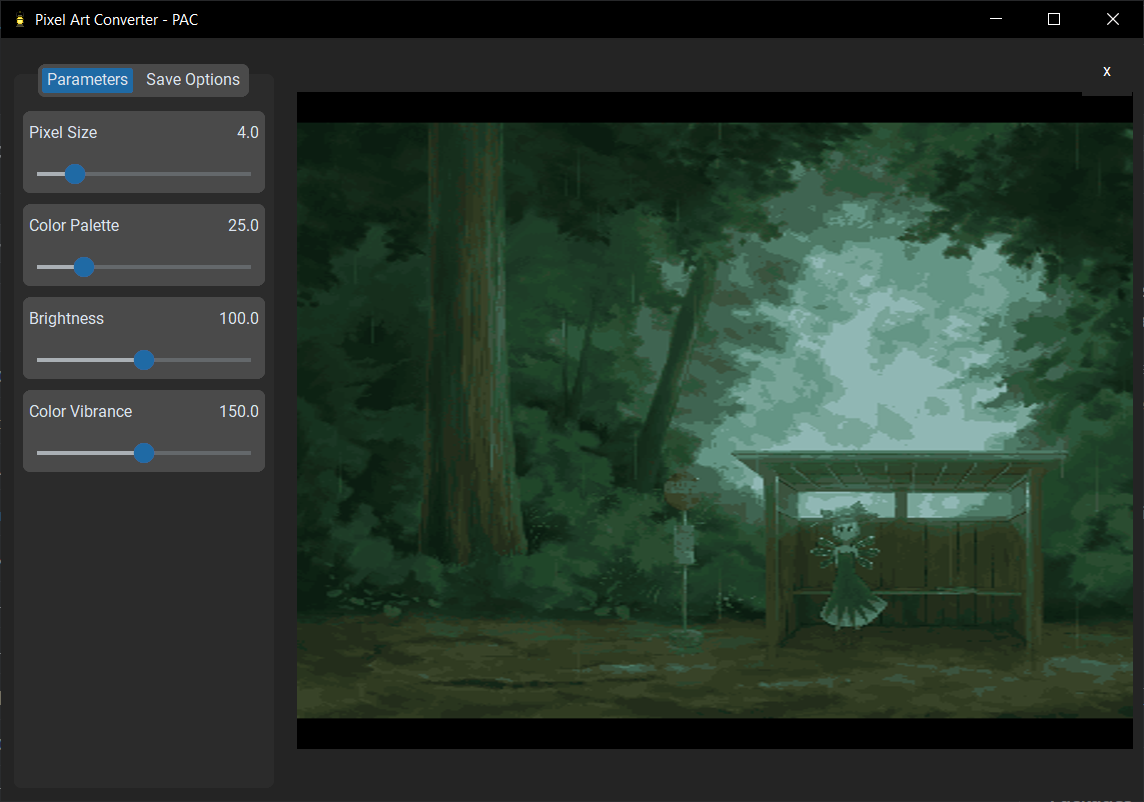
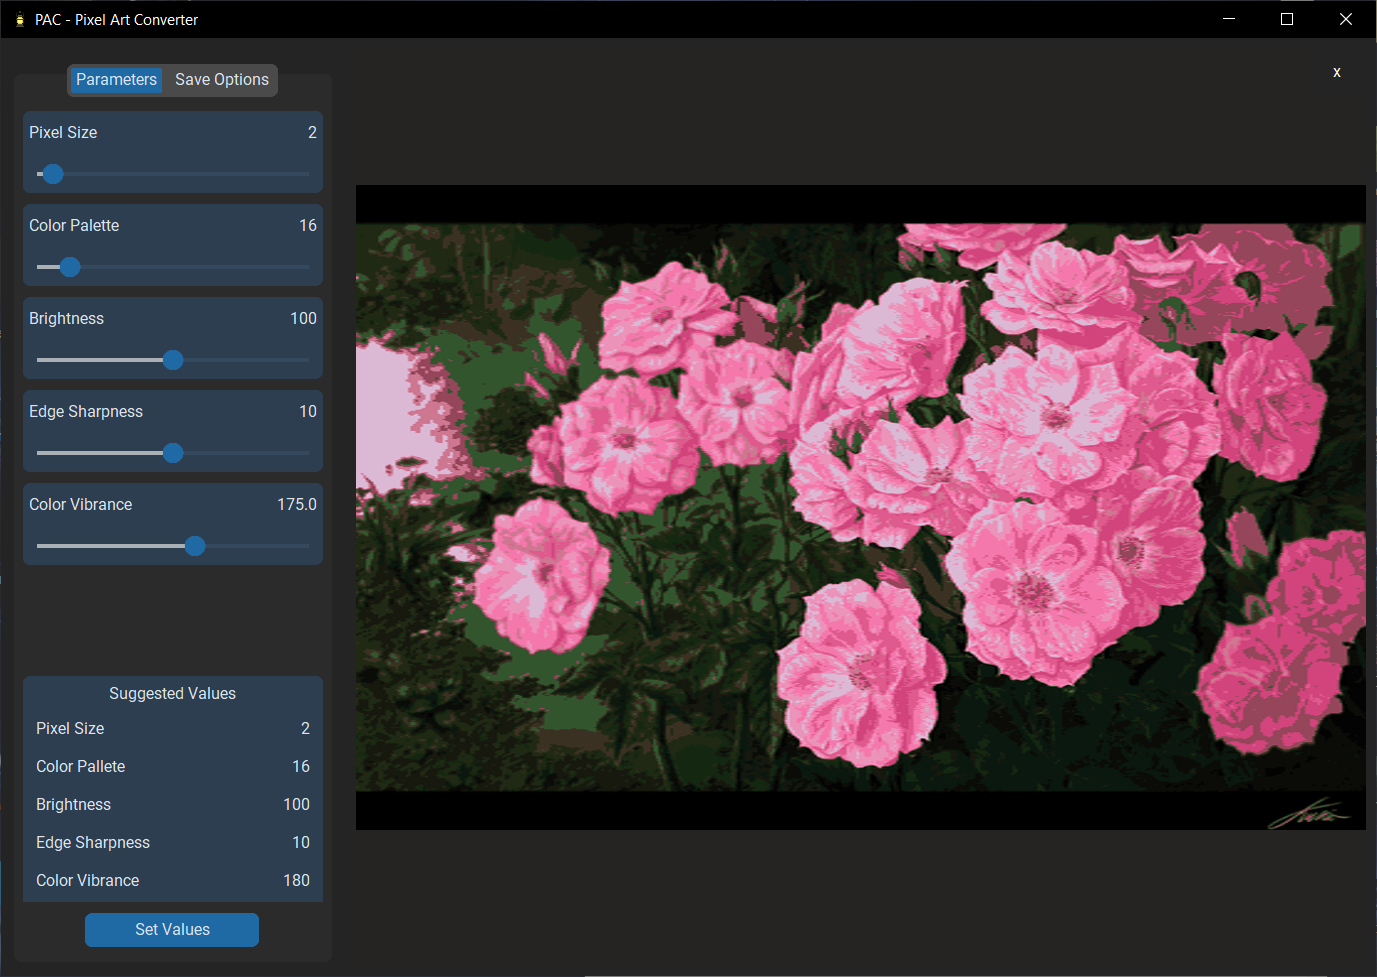
changed README.md based on the new updates

diff --git a/README.md b/README.md
@@ -8,17 +8,19 @@
 PAC (Pixel Art Converter) is a simple GUI application that allows you to convert images into pixel art. It provides various options to manipulate the image, such as adjusting pixel size, color palette, brightness, sharpness, and vibrance.
 
 <p align="center">
-  <img src="https://github.com/Hexanol777/PAC-Pixel-Art-Converter/blob/main/READMEmd/PAC%20-%20screenshot.png" alt="PAC - screenshot" />
+  <img src="https://github.com/Hexanol777/PAC-Pixel-Art-Converter/blob/main/READMEmd/PAC%20-%20screenshot%202.png" alt="PAC - screenshot" />
 </p>
 
 ## Features
 
 - Import images in almost all formats and view them in the application
 - Resize the image to a chosen pixel size for a pixelated effect
-- Adjust the color palette to control the number of colors in the image (16 - 25 recommended) 
+- Adjust the color palette to control the number of colors in the image (16 - 25 recommended)
+- Fine-tune sharpness to emphasize or soften the edges
 - Manipulate brightness to lighten or darken the image
-- ~~Fine-tune sharpness to emphasize or soften the edges~~ (not working...)
 - Modify color vibrance to enhance or reduce color saturation
+- Automatically determine the best parameter values for the images
+- perpetual data augmentation for a customized value determination
 - Export the processed image in JPEG or PNG
 - Display image operations in real-time
 
